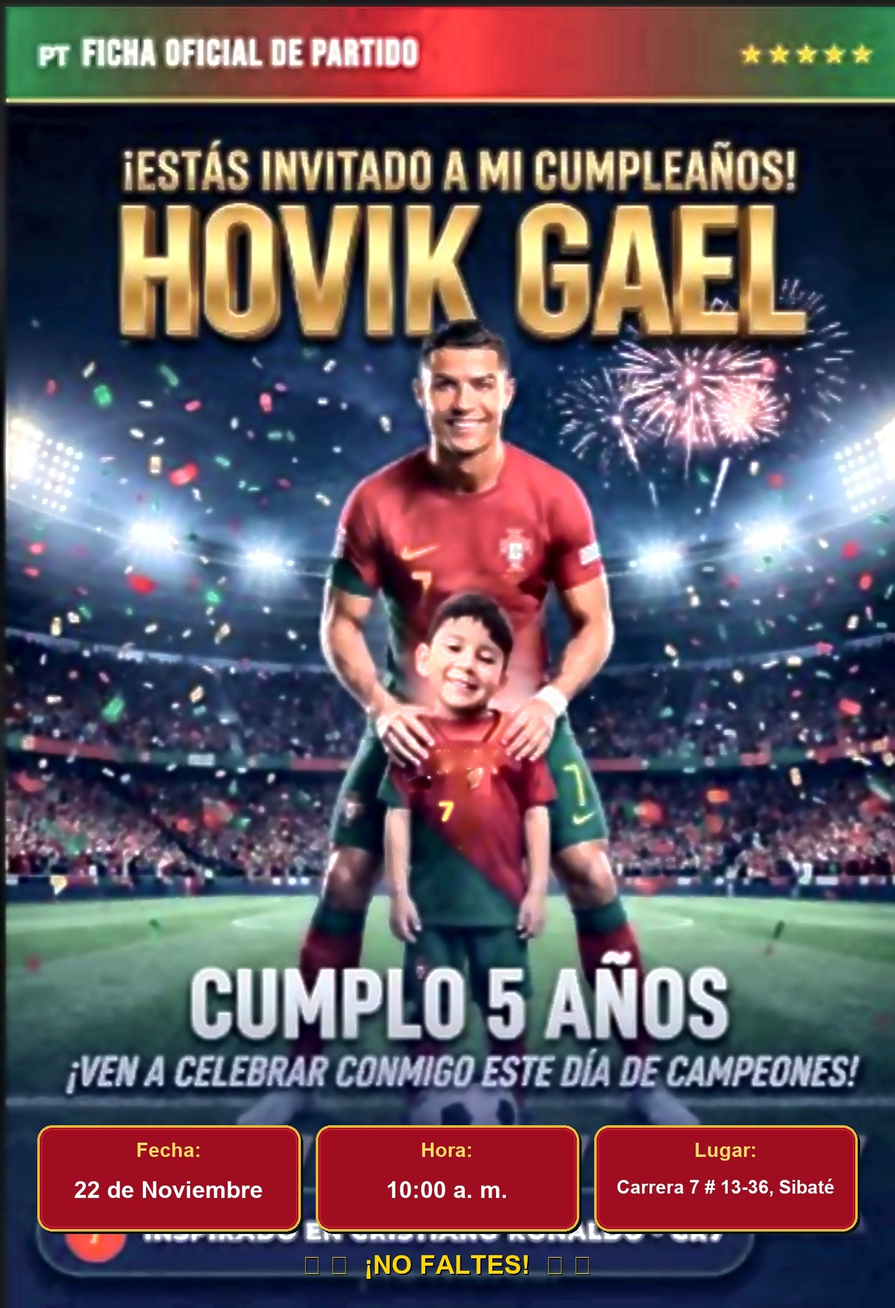
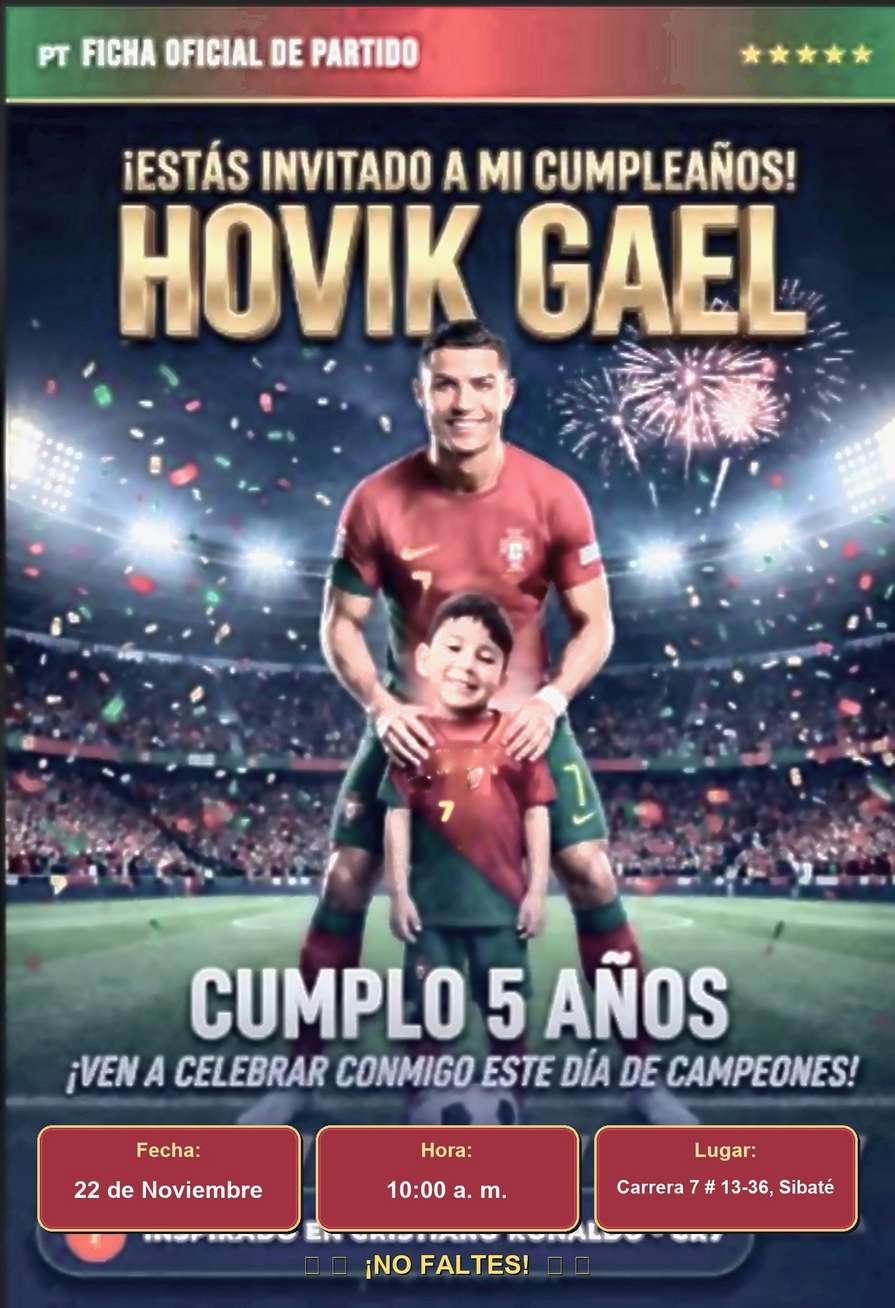
Colorimetria natural y cinematica: eliminacion de sobresaturacion, pieles naturales, camiseta frontal oficial y 2K Ultra HD

diff --git a/index.html b/index.html
@@ -19,8 +19,8 @@
   <meta property="og:type" content="website">
   <meta property="og:title" content="⚽ ¡Estás convocado al cumpleaños de Hovik Gael!">
   <meta property="og:description" content="Domingo, 22 de Noviembre · Carrera 7 # 13-36, Sibaté — ¡Toca para abrir tu invitación de Portugal!">
-  <meta property="og:image" content="https://duverneyfsm.github.io/prueba/preview.jpg?v=20261108_hd4k">
-  <meta property="og:image:secure_url" content="https://duverneyfsm.github.io/prueba/preview.jpg?v=20261108_hd4k">
+  <meta property="og:image" content="https://duverneyfsm.github.io/prueba/preview.jpg?v=20261108_natural_v3">
+  <meta property="og:image:secure_url" content="https://duverneyfsm.github.io/prueba/preview.jpg?v=20261108_natural_v3">
   <meta property="og:image:type" content="image/jpeg">
   <meta property="og:image:width" content="1200">
   <meta property="og:image:height" content="630">
@@ -107,7 +107,7 @@
       pointer-events: none;
       background-image: 
         radial-gradient(circle at 50% 20%, rgba(11, 27, 63, 0.4) 0%, rgba(5, 13, 30, 0.95) 100%),
-        url('fondo.jpg?v=20261108_hd4k');
+        url('fondo.jpg?v=20261108_natural_v3');
       background-size: cover;
       background-position: center top;
       background-repeat: no-repeat;
@@ -277,7 +277,7 @@
       padding: 30px 20px 40px;
       background: 
         linear-gradient(180deg, rgba(11, 27, 63, 0.85) 0%, rgba(5, 13, 30, 0.88) 50%, rgba(198, 11, 30, 0.75) 100%),
-        url('fondo.jpg?v=20261108_hd4k') center center / cover no-repeat;
+        url('fondo.jpg?v=20261108_natural_v3') center center / cover no-repeat;
       transition: opacity 0.6s ease, transform 0.6s ease, visibility 0.6s;
       overflow-y: auto;
       -webkit-overflow-scrolling: touch;
@@ -1293,7 +1293,7 @@
 
       <!-- Imagen Afiche Hero (Hovik Gael & Cristiano Ronaldo) -->
       <div class="card-hero-media">
-        <img src="fondo.jpg?v=20261108_hd4k" alt="Hovik Gael y Cristiano Ronaldo - Convocatoria Oficial de Portugal" id="cardHeroImg" fetchpriority="high" decoding="async">
+        <img src="fondo.jpg?v=20261108_natural_v3" alt="Hovik Gael y Cristiano Ronaldo - Convocatoria Oficial de Portugal" id="cardHeroImg" fetchpriority="high" decoding="async">
         <div class="card-hero-overlay"></div>
         <div class="hero-dorsal-tag" style="display: none;">
           <div class="dorsal-mini-badge" id="badgeDorsal">7</div>
@@ -1535,10 +1535,10 @@
       whatsappNumero: "573173779233",
 
       // 5. Archivos multimedia en la misma carpeta que este index.html
-      fondoImagen: "fondo.jpg?v=20261108_hd4k",
+      fondoImagen: "fondo.jpg?v=20261108_natural_v3",
       musicaAudio: "musica.mp3",
       narracionAudio: "", // Vacío para usar la voz del navegador que lee frase por frase
-      previewImagen: "preview.jpg?v=20261108_hd4k",
+      previewImagen: "preview.jpg?v=20261108_natural_v3",
 
       // 6. Volúmenes de audio (con atenuación suave durante la voz)
       volumenMusicaNormal: 0.55,
